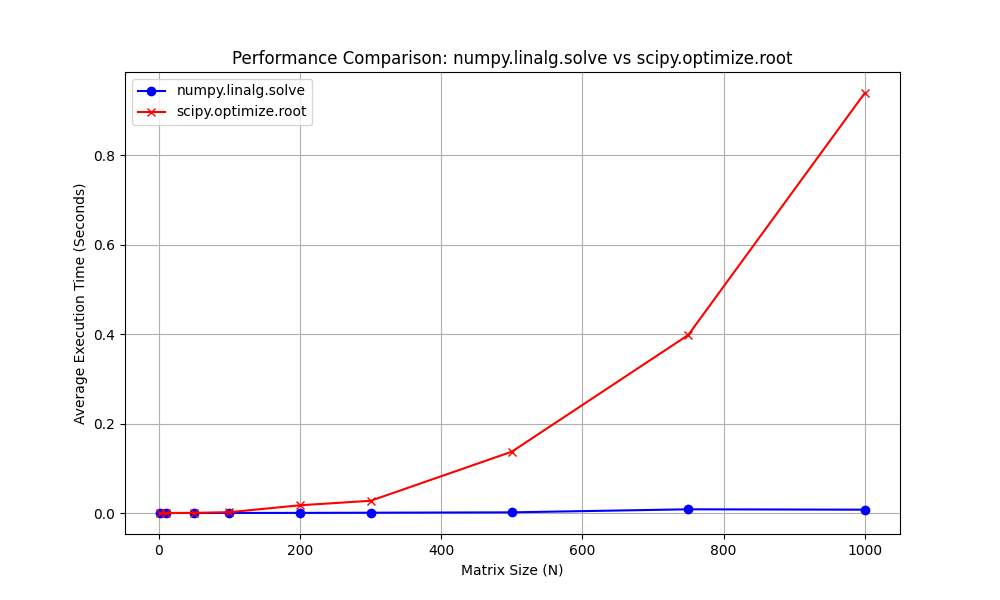
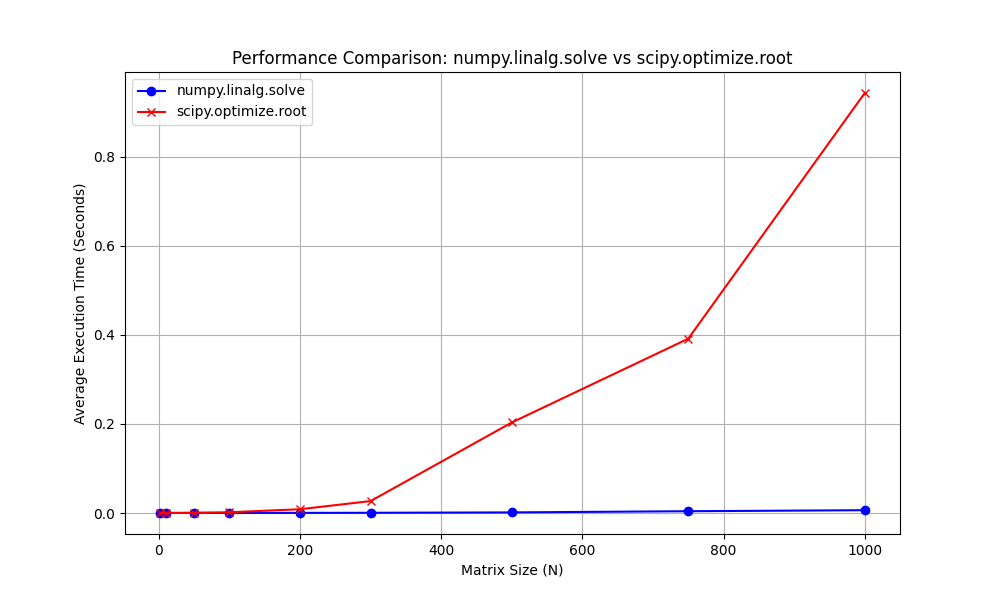
implement the same but using efficient python code

diff --git a/compare.py b/compare.py
@@ -17,92 +17,79 @@ def solve_with_root(a, b):
 
     Examples:
     >>> import numpy as np
-    >>> a = np.array([[3, 1], [1, 2]])
-    >>> b = np.array([9, 8])
-    >>> x = solve_with_root(a, b)
-    >>> np.allclose(x, [2., 3.])
+    >>> # Test 1: Simple 2x2 system
+    >>> a1 = np.array([[3, 1], [1, 2]])
+    >>> b1 = np.array([9, 8])
+    >>> x1 = solve_with_root(a1, b1)
+    >>> np.allclose(x1, [2., 3.])
+    True
+    
+    >>> # Test 2: 3x3 Identity matrix (Edge case: Ax = b where A is I means x = b)
+    >>> a2 = np.eye(3)
+    >>> b2 = np.array([5.5, -2.0, 10.1])
+    >>> x2 = solve_with_root(a2, b2)
+    >>> np.allclose(x2, [5.5, -2.0, 10.1])
     True
     """
-    # Define the function f(x) = Ax - b (we are looking for the root f(x) = 0)
-    def fun(x):
-        return np.dot(a, x) - b
-    
-    # Initial guess - a vector of zeros of the size of b
-    x0 = np.zeros(len(b))
-    
-    # Find the root
-    sol = root(fun, x0)
-    return sol.x
+    return root(lambda x: np.dot(a, x) - b, np.zeros(len(b))).x
 
 #Part B
-def test_solve_with_root():
+def test_solve_with_root(num_tests=10):
     """
-    Tests the solve_with_root function on several random inputs and compares 
-    the result to that of numpy.linalg.solve.
+    Verifies the solve_with_root function against numpy.linalg.solve.
+    Generates random N x N matrices and checks if both methods yield 
+    the same solution (accounting for floating-point precision).
     """
-    np.random.seed(42) # Set seed for consistent testing
-    print("Starting random verification tests...")
+    np.random.seed(42) # Ensures reproducibility
     
-    for _ in range(10):
+    for i in range(num_tests):
         n = np.random.randint(2, 20)
-        # Create a random matrix and a random vector
-        a = np.random.rand(n, n)
-        b = np.random.rand(n)
+        a, b = np.random.rand(n, n), np.random.rand(n) # Generate both on one line
         
-        # Solve using both methods
-        x_root = solve_with_root(a, b)
-        x_linalg = np.linalg.solve(a, b)
+        # Calculate and assert in a single line
+        assert np.allclose(solve_with_root(a, b), np.linalg.solve(a, b), atol=1e-6), f"Test {i+1} failed for matrix size {n}x{n}"
         
-        # Ensure the results are identical (up to reasonable numerical precision)
-        assert np.allclose(x_root, x_linalg, atol=1e-6), f"Test failed for size {n}"
-        
-    print("All random tests passed successfully!\n")
+    print(f"All {num_tests} random verification tests passed successfully!\n")
+
 
 #Part C
-def compare_performance():
+def compare_performance(sizes=[2, 10, 50, 100, 200, 300, 500, 750, 1000], trials=3):
     """
-    Compares the execution time of solve_with_root against np.linalg.solve 
-    across different sizes (1 to 1000), plots a graph, and saves it as an image.
+    Compares the average execution time of solve_with_root against np.linalg.solve 
+    across different matrix sizes, plots a graph, and saves it as an image.
     """
-    # Sizes to check (in jumps to avoid excessively long runtimes)
-    sizes = [2, 10, 50, 100, 200, 300, 500, 750, 1000]
-
-    # random_sizes = np.random.randint(2, 1000, size=10)
-    # # 2. Sort the sizes from smallest to largest so the line graph draws correctly!
-    # sizes = np.sort(random_sizes)
+    times_linalg, times_root = [], []
     
-    times_root = []
-    times_linalg = []
-    
-    print("Starting performance comparison (this may take a few seconds)...")
+    print(f"Starting performance comparison (averaging over {trials} trials per size)...")
     for n in sizes:
-        a = np.random.rand(n, n)
-        b = np.random.rand(n)
+        t_lin, t_rot = 0, 0
         
-        # Measure time for numpy.linalg.solve
-        start_time = time.time()
-        np.linalg.solve(a, b)
-        times_linalg.append(time.time() - start_time)
-        
-        # Measure time for scipy.optimize.root
-        start_time = time.time()
-        solve_with_root(a, b)
-        times_root.append(time.time() - start_time)
-        
+        # Run a few trials to get a true "average" execution time
+        for _ in range(trials):
+            a, b = np.random.rand(n, n), np.random.rand(n)
+            
+            t0 = time.time()
+            np.linalg.solve(a, b)
+            t_lin += time.time() - t0
+            
+            t0 = time.time()
+            solve_with_root(a, b)
+            t_rot += time.time() - t0
+            
+        times_linalg.append(t_lin / trials)
+        times_root.append(t_rot / trials)
         print(f"  Size {n}x{n} completed.")
 
-    # Create the graph
+    # Create and save the graph using shorthand formatting
     plt.figure(figsize=(10, 6))
-    plt.plot(sizes, times_linalg, label='numpy.linalg.solve', marker='o', color='blue')
-    plt.plot(sizes, times_root, label='scipy.optimize.root', marker='x', color='red')
+    plt.plot(sizes, times_linalg, 'bo-', label='numpy.linalg.solve')
+    plt.plot(sizes, times_root, 'rx-', label='scipy.optimize.root')
     
     plt.title('Performance Comparison: numpy.linalg.solve vs scipy.optimize.root')
     plt.xlabel('Matrix Size (N)')
     plt.ylabel('Average Execution Time (Seconds)')
     plt.legend()
     plt.grid(True)
-    
-    # Save the graph
     plt.savefig('comparison.png')
     print("\nGraph saved successfully as 'comparison.png'")
 
